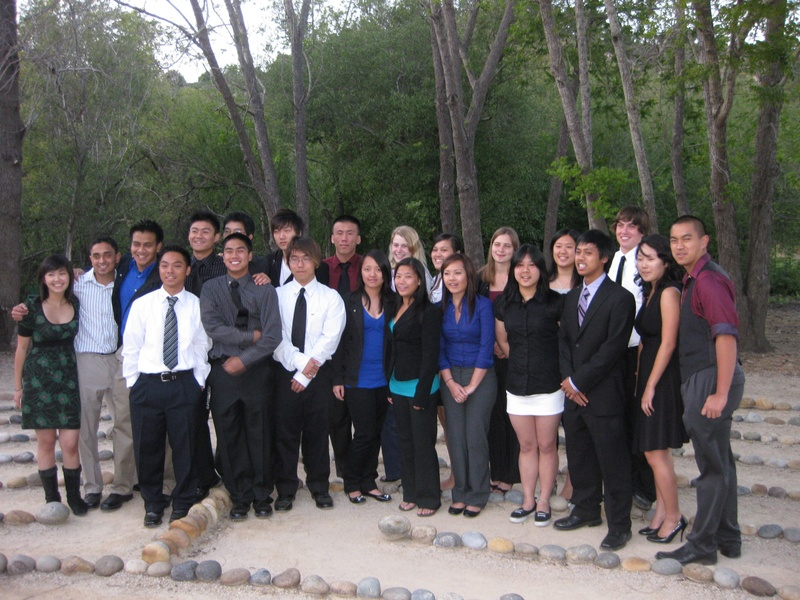
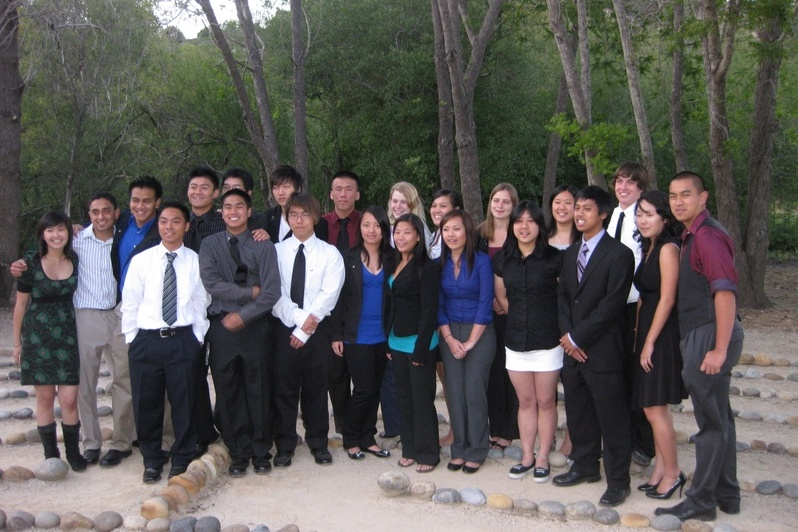
Resized all pledge class photos, added additional pledge classes

diff --git a/members/pledge-archive.html b/members/pledge-archive.html
@@ -88,6 +88,90 @@
       </div>
     </div>
 
+    <div class="container">
+      <hr>
+    </div>
+
+    <div class="class-container">
+      <img class="group-photo" src="../images/pledge-archive/alpha-psi.png" alt="Picture of Alpha Psi Pledge Class">
+      <div class="caption">
+        <h2>Alpha Psi</h2>
+        <h3>(Spring 2015)</h3>
+
+        <h4>NAMESAKE</h4>
+        <p>Allan Agatep</p>
+
+        <h4>PLEDGE EDUCATORS</h4>
+        <p>Jose Paolo Dela Cruz and Kevin Hongtongsak</p>
+
+        <h4>BROTHERS</h4>
+        <p>Arjun Gupta, Colin Berge, Damon Suen, Diana Melendez, Dillan Murray, Fiona Campbell, Gio Fata, Hunter Snider, Janessa Madarang, Jonathan Chianglin, Kelly Pong, Kian Ramezani, Marcial Lamera, Matthew Faris, Mika Mercado</p>
+      </div>
+    </div>
+
+    <div class="container">
+      <hr>
+    </div>
+
+    <div class="class-container">
+      <img class="group-photo" src="../images/pledge-archive/alpha-chi.jpg" alt="Picture of Alpha Chi Pledge Class">
+      <div class="caption">
+        <h2>Alpha Chi</h2>
+        <h3>(Fall 2014)</h3>
+
+        <h4>NAMESAKE</h4>
+        <p>Kay Krenek</p>
+
+        <h4>PLEDGE EDUCATORS</h4>
+        <p>Rich Kaercher and Tas Thienpothong</p>
+
+        <h4>BROTHERS</h4>
+        <p>Anita Lee, Annie Nguyen, Bryce De Guzman, Danica Liang, Elizabeth Young, Jason Safaverdi, Jessica Chu, Jisela Ramos, Jorge Pluma Reyes, Josie Li, Juan Emmanuel Ramirez, Kristina Kong, Larson Chang, Timothy En, Todd Davis, William So, Wyatt Taylor</p>
+      </div>
+    </div>
+
+    <div class="container">
+      <hr>
+    </div>
+
+    <div class="class-container">
+      <img class="group-photo" src="../images/pledge-archive/alpha-phi.jpg" alt="Picture of Alpha Phi Pledge Class">
+      <div class="caption">
+        <h2>Alpha Phi</h2>
+        <h3>(Spring 2014)</h3>
+
+        <h4>NAMESAKE</h4>
+        <p>Kevin Chu</p>
+
+        <h4>PLEDGE EDUCATORS</h4>
+        <p>Tina Duong and Victoria Ortega</p>
+
+        <h4>BROTHERS</h4>
+        <p>Amanda Pe, Anna Huang, Caitlin Yee, Chris Wong, Courtney Chan, Daniel Choi, Franklin Chang, Hannah Lewis, Harvir Hampal, Holly Greiner, Jahi Abimbola, James Ho, Jasmin Zepeda, Katie Dong, Kevin Castro, Kodsart Denaro, Kris Green, Laura Swart, Lauren Kikuchi, Lucas Madison, Marion Soriano, Matthew Naffziger, Maximiliano Cortes, Monike Chan, Sara Westing, Sarah Quon, Sirena Myint, Steven Thon</p>
+      </div>
+    </div>
+
+    <div class="container">
+      <hr>
+    </div>
+
+    <div class="class-container">
+      <img class="group-photo" src="../images/pledge-archive/alpha-upsilon.jpg" alt="Picture of Alpha Phi Upsilon Class">
+      <div class="caption">
+        <h2>Alpha Upsilon</h2>
+        <h3>(Fall 2013)</h3>
+
+        <h4>NAMESAKE</h4>
+        <p>David A. Emery</p>
+
+        <h4>PLEDGE EDUCATORS</h4>
+        <p>Mariel Sanchez and Wesley Ballar</p>
+
+        <h4>BROTHERS</h4>
+        <p>Chris Hyunh, Daniel Park, Dannie Ceballos, Doug Huynh, Harry Zhao, Jennifer Ikeno, Jennifer McCann, Justin Truong, Michael Woodson, Rommel Noche, Ryan Nguyen, Sherri Yu, Skyler McClain, Soyean Yoo, Tas Thienpothong</p>
+      </div>
+    </div>
+
   </section>
 
   <footer>
